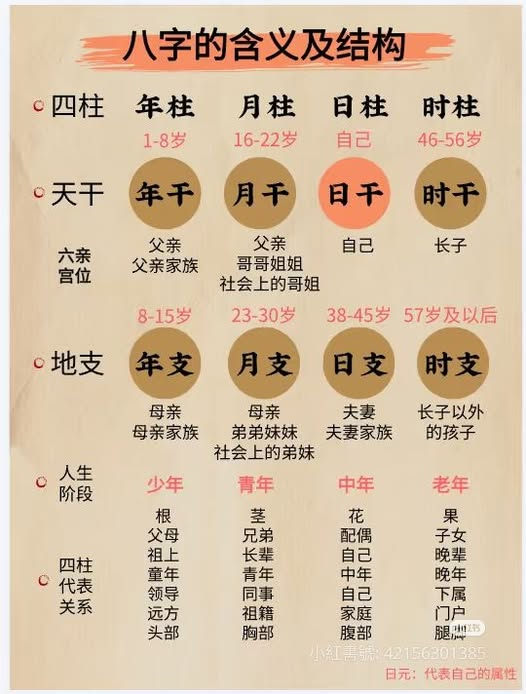
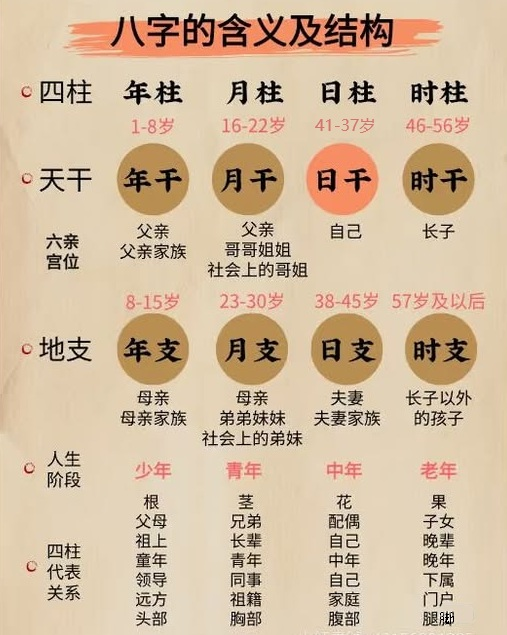
2026年5月25日1

Changed region(s): [[0.0, 0.0, 1.0, 1.0], [0.0888, 0.3591, 0.1775, 0.4488]]

diff --git a/source/_posts/2677-example.md b/source/_posts/2677-example.md
@@ -1,9 +1,9 @@
 ---
 title: 八字测算举例
-date: 2026-05-24
+date: 2026-05-25
 categories: Bagua
-tags: [Bagua]
-description: 用自己的八字举个例子
+tags: [Bagua, Bazi]
+description: 八字测算举例
 ---
 
 [TOC]
@@ -73,24 +73,71 @@ description: 用自己的八字举个例子
 很明显, 是弱势局, 需要加强木, 削弱金. 
 虽有三木二水, 但弱, 两金反强, 有潜在的金木之争. 中间只有癸阳水略作缓冲.
 综合考虑"扶抑","调侯","通关". 最佳选择是: 水.
-本局癸水透干为君，壬水藏支为臣. 作为用神. 则:
-**印星为用神; 官杀为喜神; 财星为忌神; 食伤为仇神**
-注意官杀的双重作用, 官杀是克日主的, 本质为压力源. 印旺时(可通关), 官杀才能发挥喜神的作用.
+本局癸水透干为君，壬水藏支为臣. 作为用神. 此局**用神为水(印星)**
 
-用喜忌仇, 多用于大运流年和应期推断. 初步推算中, 较少用到.
+用喜忌仇的判断, 多用于大运流年和应期推断. 
+初步推算中, 一般会提示往用喜对应十神方向发挥主动性.
+**八字中的用喜忌仇神**, 其定义和六爻不同, 不是基于五行生克固定的.
+而是**根据五行对原局整体性影响来定义的.**
+- 喜神, 辅助原局平衡, 如生用神, 或分担忌神压力的. 此局**喜神为木(比劫)**, 帮日主抗杀.
+- 忌神, 破坏原局平衡, 如克用神, 破坏通关五行的. 此局中**忌神为土(财星); 当水弱无制时, 金(官杀)也是忌神**.
+- 仇神, 不利原局平衡, 如生忌神. 此局中**仇神为火(食伤)**
 
 
 
 # 初步推算
 
-八字的含义及结构
+所有的八字推算信息都只能用于参考. 
+除非有非常特定的局, 或有交叉验证的方式, 方可大辐度提高现实确信度.
+
+
+
+首先可根据确定的用神,喜神,忌神,仇神. 进行一个初步的分析判断.
+此局中,用神忌神情况可概述为: 原局木金相战, 靠水平衡通关.宜在用喜之神上发力, 克制转换忌仇之神. 其中用喜为印星和比劫, 忌仇为财星和食伤. 不可执于官伤, 需要尽快基于印星转换.
+
+那么根据十神的映射关系, 基本特质可概括为:
+
+| 特质         | 象意来源            | 行为表现                                    |
+| ------------ | ------------------- | ------------------------------------------- |
+| **外柔内刚** | 乙木日主+劫财透干   | 表面随和好沟通，内在有主见、不轻易妥协      |
+| **思维缜密** | 杀印相生+偏印得令   | 遇事先分析逻辑/风险，忌拍脑袋决策           |
+| **抗压韧性** | 七杀当令+印星化杀   | 压力越大越能激发学习力，但需"缓冲期"消化    |
+| **表达克制** | 伤官藏支+身弱不胜泄 | 有创意/观点，但倾向"想透再说"，忌情绪化输出 |
+
+
+
+优势行为模式 (用神喜神模式, 需要学习使用, 利于成长)
+
+| 场景            | 推荐行为                             | 底层逻辑                          |
+| --------------- | ------------------------------------ | --------------------------------- |
+| **遇挑战/压力** | 先暂停→拆解问题→查资料/请教→形成方案 | 印星化杀：压力→学习→专业壁垒      |
+| **做决策**      | 写利弊清单+充分咨询+小步验证         | 印星缓冲+比劫借力，避"身弱不胜决" |
+| **合作/合伙**   | 前置沟通权责+书面约定+重口碑复利     | 比劫帮身+防劫财夺财，关系更稳     |
+| **创意/表达**   | 先沉淀方法论→再输出内容→配专业背书   | 伤官配印：创意有深度，表达有分量  |
+| **求财/变现**   | 依托专业壁垒+长期服务+合规路径       | 正财为主+印星把关，避"财生杀攻身" |
+
+
+
+风险行为倾向（忌神仇神模式, 需要避免, 否则容易内耗）
+
+| 触发场景       | 易出现的偏差              | 潜在后果                    |
+| -------------- | ------------------------- | --------------------------- |
+| **压力峰值期** | 焦虑→急躁决策→硬扛不求助  | 身弱不胜杀，易出错/身心透支 |
+| **利益诱惑时** | 为短期回报忽略规则/口碑   | 财生杀坏印，反噬专业根基    |
+| **情绪波动时** | 思多行少/言语直率伤关系   | 伤官见官+思行脱节，内耗加剧 |
+| **合作模糊时** | 碍于情面不签契约/权责不清 | 劫财夺财象意，后期摩擦消耗  |
+
+
+
+
+然后结合下表的八字映射关系, 根据对应的气场强弱和合冲生克刑害破关系, 初步推断出可能的现实对应.
+
 ![八字的含义及结构](https://draapho.github.io/images/2677/SiZhu.jpg)
 
-结合上表的八字映射关系, 根据对应的气场强弱和合冲生克刑害破关系, 初步推断出可能的现实对应.
-但这些信息只能用于参考. 除非有非常特定的局, 方可大辐度提高现实确信度.
+再把八字依次过一遍. 首先日主的气场特性是:
+**天时不利(难以择时), 无地利(无环境助力), 人和强**: 
+整体看, 不会自降机遇, 很多事情需要主观能动性去确定发展方向.
 
-八字依次过一遍吧. 请记得日主的气场特性:
-**天时不利(难以择时), 无地利(无环境助力), 人和强**: 整体看, 不会自降机遇, 很多事情需要主观能动性去确定发展方向.
 - 年干甲木劫财: 自坐沐浴, 无根, 月日时三干生扶, 气中强.
 - 年支子水偏印: 无旬空, 透干, 月支生. 气强
   - 星运病, 神煞太极贵人/天乙贵人.
@@ -136,7 +183,7 @@ description: 用自己的八字举个例子
 - 全局总结, 高置信度>75%, 中置信度50%, 低的就不写了:
   - [高]**核心命局**:
     - 天时不助投机侥幸，人生高度取决于主观能动性与专业沉淀能力
-    - 性格底色：思维缜密、抗压性强、外柔内刚（乙木+杀印相生+劫财透干）
+    - 性格底色：思维缜密、抗压性强、外柔内刚、表达克制
     - 关键优势：化压力为学识的"杀印相生"格局，适合规则清晰、需专业壁垒的领域
   - [高]**事业财富**:
     - 最佳发展：硬技能/知识体系构建 → 技术变现、知识付费、合规型项目管理/顾问咨询
@@ -180,17 +227,112 @@ description: 用自己的八字举个例子
   - 用神+桃花协同引动: 印星(用神)到位+桃花神煞被引动
 - 最后进行流年推演:
   - 现在已经很方便了, 只需在排盘软件中, 点击流年即可直观的推演.
-  - 2003-2012｜乙亥大运. 青年时期,用神到位.
-    - 大运特征：亥水正印(用神)+乙木比肩
-    - 星到位→状态提升，专业/学习场景易遇欣赏者
-    - 巳亥冲（冲配偶宫！）→感情波动/异地/分合考验
-    - [中]2007丁亥:用神双现,大运亥+流年亥,印星旺相;食神生财,丁火食神,才华/创意吸引欣赏者;配偶宫引动:亥冲巳→关系变动期,易有"心动信号";双亥冲一巳：情绪波动/异地考验/选择困难
-    - [高]2008戊子:财星透干,戊土正财透,正缘信号显性化;用神得根,状态稳;子酉破+子巳无冲,缘分隐性推进,不张扬但扎实
+  - 2003-2012, 乙亥大运. 亥水正印(用神)+乙木比肩.
+  - [中]2003癸未:癸水偏印透+未土财库+巳酉未三合.印星+财库:务实型缘分萌芽;三合引动:学业或事业/感情联动,缘分显性度提升.此年"正缘概率"相对提升.
+  - [中]2007丁亥:用神双现,大运亥+流年亥,印星旺相;食神生财,丁火食神,才华/创意吸引欣赏者;配偶宫引动:亥冲巳→关系变动期,易有"心动信号";双亥冲一巳：情绪波动/异地考验/选择困难
+  - [高]2008戊子:财星透干,戊土正财透,正缘信号显性化;用神得根,状态稳;子酉破+子巳无冲,缘分隐性推进,不张扬但扎实.
 
 
 
 # 应期的交叉验证
 
+不知死, 焉知生. 尝试判断寿命.
+
+
+
+## 易经卜卦, 问寿命
+
+问阳寿几何?
+- 略筮法: 上卦5巽, 下卦5巽, 动爻1
+- 装卦
+  ```
+  公历：2026年 4月 15日 22时 7分
+  干支：丙午年 壬辰月 己未日 乙亥时 （旬空：子丑)
+  得「巽为风」之「风天小畜」卦
+  　　　　　　　　巽宫:巽为风(六冲)　　　　　　　巽宫:风天小畜
+  勾陈　　　　　　兄弟辛卯木 ▅▅▅▅▅ 世　　   兄弟辛卯木 ▅▅▅▅▅
+  朱雀　　　　　　子孙辛巳火 ▅▅▅▅▅ 　　　   子孙辛巳火 ▅▅▅▅▅
+  青龙　　　　　　妻财辛未土 ▅▅　▅▅ 　　　   妻财辛未土 ▅▅　▅▅
+  玄武　　　　　　官鬼辛酉金 ▅▅▅▅▅ 应　　   妻财甲辰土 ▅▅▅▅▅
+  白虎　　　　　　父母辛亥水 ▅▅▅▅▅ 　　　   兄弟甲寅木 ▅▅▅▅▅
+  螣蛇　　　　　　妻财辛丑土 ▅▅　▅▅ 　×→    父母甲子水 ▅▅▅▅▅
+  ```
+- 断卦: 60不到. 大概率2041年, 57岁. 或55岁. 注意丑年2033年, 49岁, 也有可能有波折变故.
+- 易经解卦
+  - 先天, 巽为5. 为55.
+  - 序卦传. 巽风, 57. 小畜, 9.
+  - 卦气说. 小畜, 五月, 数字7. 巽风, 九月,  数字11
+  - 64卦圆图. 巽风, 5. 小畜. 57.
+  - 巽为风湿, 神经. 乾为头痛, 脑疾.
+  - 五行取数: 动爻土5/10, 变爻水1/6. 可为56, 57.
+  - 一生运势:
+    - 初六：进退，利武人之贞。0-10岁
+      - 问时运：运途不正，心神犹豫，是以谋事皆颠倒无成。
+      - 性格决定命运.性格为巽顺也.不喜武,也就没有武人之贞.
+    - 九二：巽在床下，用史巫纷若，吉，无咎。10-20岁
+      - 问时运：得神明保佑，运途多吉。
+    - 九三：频巽，吝。志穷也。20-30岁
+      - 问时运：目下运途卑低，未免为人所贱。
+      - 初入社会,可应命局中的压力显现.
+    - 六四：悔亡，田获三品。30-40岁
+      - 问时运：运途得正，灾悔俱亡，出而有功也。
+      - 可应命局分析中,七杀生偏印, 压力生智慧. 但命局中的时间不对. 
+    - 九五：贞吉，悔亡，无不利，无初有终。先庚三日，后庚三日，吉。40-50岁
+      - 问时运：逢丁癸日作事，无往不利，大吉。
+      - 平安无事, 安然渡过.
+    - 上九：巽在床下，丧其资斧，贞凶。50-60岁
+      - 问时运：运途不正，作事委靡，愈高愈危，有丧无得，凶。
+      - 疾病缠身, 病危.
+- 六爻解卦
+
+  | 爻神 | 地支     | 用神                          | 原神(生用神)                            | 忌神(克用神)       | 仇神(生忌神)            | 耗护神(用神生) |
+  | ---- | -------- | ----------------------------- | --------------------------------------- | ------------------ | ----------------------- | -------------- |
+  | 爻位 |          | **上爻**(世)                  | 二爻; **初爻**(变)                      | **三爻**(应)       | **初爻**(动); 四爻;     | 五爻           |
+  | 六亲 |          | 兄弟卯木                      | 父母亥水; 父母子水(变)                  | 官鬼酉金           | 妻财丑土(动); 妻财未土; | 子孙巳火       |
+  | 月建 | **辰土** | 囚, 卯辰害(以强凌弱 根基受损) | 死, 亥入辰墓; 死                        | 相, **辰酉合**     | 旺; 旺; 旺              | 休             |
+  | 日辰 | **未土** | 囚, **卯入未墓**              | 死; 死, 子未害(空)                      | 相                 | 旺, **丑未冲**; 旺; 旺  | 休             |
+  | 旬空 | **子丑** |                               | 子                                      |                    | 丑                      |                |
+  | 动爻 | **丑土** | 囚                            | 死, **子丑合**(空)                      | 相, 动生忌         | 旺, **化克**(子丑合,空) | 休             |
+  | 库墓 |          | **卯入未墓**(日)              | **亥入辰墓**(月); **子入辰墓**(月,空)   |                    | **丑入辰墓**(月,空)     |                |
+  | 能量 |          | **弱, 入墓, 原神空**          | 亥:无气; 子:真空                        | **旺相, 得月生合** | 丑:假暗动; 未/辰:旺     | 休囚无气       |
+  | 应期 |          | 卯(值), 酉(冲), 丑(冲未墓)    | 亥(值), 巳(冲), 戌(冲辰墓); 子/丑(出空) | 酉(值), 卯(冲)     | 丑(出空/值), 未(冲)     | 巳(值), 亥(冲) |
+  
+- 辛8, 丑2, 甲1, 子1. 一甲子. 60年.
+  - 世爻兄弟. 问自身情况, 世爻作为用神.
+    - 极弱. 卯辰害, 根基有损.
+    - 酉冲易散. 酉年2041年, 57岁.
+    - 丑年冲墓不得出. 2033年, 49岁.
+  - 原神父母: 寿元根基, 天命等.
+    - 极弱. 旬空, 入墓不得出.
+    - 注意丑年, 2033年, 49岁. 辰年, 2036, 52岁.
+  - 忌神官鬼: 代表疾病, 灾厄, 压力等.
+    - 旺. 酉值. 应2041年.
+  - 仇神妻财: 主饮食, 欲望, 劳碌等
+    - 极旺. 注意丑年, 2033年, 49岁.
+    - 未土. 2039年, 55岁.
+  - 耗护神子孙. 修身养性, 心态平和等.
+
+
+
+## 八字大运流年的交叉验证
+
+有了预期的几个时间点, 只需要重点排查即可(如2033,2036,2039,2041等年份):
+- 原局的基础信息:
+  - 用神: **印星水**; 忌神: **财星土**, **官杀金**(仅印星水弱的情况)
+  - 健康焦点：金木交战→肝胆/神经系统/筋骨/呼吸系统/多症并发
+- [高]大运丁丑, 流年2033癸丑.
+  - 虽然癸水为用神,但丁癸冲. 且子丑合,用神印水总体减弱. 修复力下降.
+  - 而巳酉丑三合成金, 官杀极旺, 直克日主乙木!
+  - 2033年己未月(8月),己未为仇神土,且丑未冲,引动大运流年.注意肠胃/皮肤突发不适.
+  - 2033年辛酉月(10月),双金官杀旺之极, 风险尤其的大!
+- [极高]大运戊寅, 流年2041辛酉.
+  - 流年辛酉金极旺,辛乙冲. 直接冲击日主乙木! 且酉酉自刑无制(杀疯了).
+  - 大运戊癸合绊,用神癸水气场大减! 水一旦受阻,就难以助力金木通关,金克木再度加强! 
+  - 还没完! 大运寅泄年支水,寅申冲终结巳申合水,水再度减弱,金再度加强,且巳火再泄乙木.
+  - **原局的通关平衡被彻底破坏!** 官杀旺极自刑,用神之水被破坏殆尽,日主乙木直接被冲泄, 非常虚弱.
+  - 2041年丙申月(9月,丙火申金),丁酉月(10月,丁火冲癸酉金), 戊戌(11月,戊土合癸水), 申酉戌三会成金局.
+  - 2041年9/10/11三个月,一月难过一月,金越来越旺,水木越来越弱.金完胜,木完败.
+- 综合占卜结论,这个坎,基本很难过去.
 
 
 

diff --git a/source/_posts/2675-Bazi.md b/source/_posts/2675-Bazi.md
@@ -40,18 +40,18 @@ description: 八字四柱的学习
 ## 十神
 **十神**, 是四柱的专用概念, 也是四柱最重要, 最核心的概念. 以**日主**为中心, 即日柱的天干, 代表自己. 基于五行生克和阴阳关系推导而来.
 
-| 十神 | 简称及作用   | 与日主的关系    | 核心含义         | 人事象意                     |
-| ---- | ------------ | --------------- | ---------------- | ---------------------------- |
-| 比肩 | **比劫**↓   | 同五行,同阴阳   | 自我,竞争,助力 | 自尊,同辈,兄弟朋友 |
-| 劫财 | 相助,旺 100% | 同五行,异阴阳   | 争夺,变动,外助 | 竞争,合作,帮扶       |
-| 正印 | **印星** ↓   | 生日主者,异阴阳 | 学识,安全,仁慈 | 学历,贵人,母亲 |
-| 偏印 | 相助,相 90%  | 生日主者,同阴阳 | 偏门,孤傲,洞察 | 玄学,绝活,继母 |
-| 食神 | **食伤** ↓   | 日主所生,同阴阳 | 才华,享受,温和 | 技艺,福寿,子女(女命) |
-| 伤官 | 阻碍,休 30%  | 日主所生,异阴阳 | 创意,叛逆,表达 | 露才,创新,子女(男命) |
-| 正财 | **财星**↓   | 日主所克,异阴阳 | 稳定,务实,节制 | 工资,勤俭,责任,妻子    |
-| 偏财 | 阻碍,囚 50%  | 日主所克,同阴阳 | 意外,投机,慷慨 | 商业,社交,情人,父亲 |
-| 正官 | **官杀**↓   | 克日主者,异阴阳 | 规则,责任,名誉 | 仕途,自律,丈夫 |
-| 七杀 | 阻碍,死 10%  | 克日主者,同阴阳 | 压力,挑战,魄力 | 武职,危机,小人 |
+| 十神 | 与日主的关系    | 简称及作用   | 特性和偏好 | 抽象意象      | 人事意象                    |
+| ---- | --------------- | ------------ | ---------------- | ---------------------------- | ---------------------------- |
+| 比肩(比) | 同五行,同阴阳   | **比劫** 旺 100% | *合作* | 自我,竞争,助力 | 自尊,同辈,兄弟朋友 |
+| 劫财(劫) | 同五行,异阴阳   | *资源获取* | *竞争* | 争夺,变动,外助 | 竞争,合作,帮扶       |
+| 正印(印) | 生日主,异阴阳 | **印星/印枭** 相 90% | *外部认可* | 学识,安全,仁慈 | 学历,贵人,母亲 |
+| 偏印(枭) | 生日主,同阴阳 | *性格底色* | *自我内求* | 偏门,孤傲,洞察 | 玄学,绝活,继母 |
+| 食神(食) | 日主生,同阴阳 | **食伤** 休 30% | *物质/享乐* | 才华,享受,温和 | 技艺,福寿,子女(女命) |
+| 伤官(伤) | 日主生,异阴阳 | *欲望层面* | *精神/冒险* | 创意,叛逆,表达 | 露才,创新,子女(男命) |
+| 正财(财) | 日主克,异阴阳 | **财星** 囚 50% | *稳定节俭* | 稳定,务实,节制 | 工资,勤俭,责任,妻子    |
+| 偏财(才) | 日主克,同阴阳 | *财源特性* | *波动大方* | 意外,投机,慷慨 | 商业,社交,情人,父亲 |
+| 正官(官) | 克日主,异阴阳 | **官杀** 死 10% | *外部规训* | 规则,责任,名誉 | 仕途,自律,丈夫 |
+| 七杀(杀) | 克日主,同阴阳 | *压力来源* | *自我要求* | 压力,挑战,魄力 | 武职,危机,小人 |
 
 
 
@@ -214,11 +214,11 @@ description: 八字四柱的学习
 |          | **扶抑** (日主旺衰)                   | 适用于日主旺衰明显的普通命局.<br>强则抑, 弱则扶, 中则和. 注意用药强度 | 日主强: 取官杀, 食伤, 财星<br>日主弱: 取印星, 比劫<br>日主和: 确保命局流通, 或取调候 |
 |          | **调候** (季节失衡)                   | 月支夏季燥热或冬季湿寒, 气候失衡<br>或四柱五行严重偏科, 则调候优先.<br>总原则, 阴阳平衡, 燥湿平衡, 寒热平衡 | 月支春: 丙火(泄木), 葵水(润木)<br>月支夏: 壬水优先, 庚金辰丑<br>月支秋: 丁火(炼金), 壬水(润金)<br>月支冬: 丙火优先, 戊土丁火 |
 |          | **通关** (两神相战)                   | 两神等势相战(如金木, 水火), 需通关调和                       | 取通关五行. 金木战取水,<br>木土战取火, 土水战取金,<br>水火战取木, 火金战取土 |
-|          | **专旺/从格**                         | 顺势用神,不可逆选尝试平衡                                   | 用神选顺喜之神即可.                                          |
+|          | **专旺/从格**                         | 顺势用神,不可逆选尝试平衡                                    | 用神选顺喜之神即可.                                          |
 |          | **化气格**                            | 日主有合且合化成功(条件极其苛刻)                             | 取合化五行为用神                                             |
-| **喜神** |                                       | 辅助用神达成平衡的五行                                       | 生用神, 扶用神, 克忌神,使用神通关                           |
-| **忌神** |                                       | 破坏命局平衡的五行,往往意味着引发灾咎.                      | 克用神,严重耗泄用神,                                        |
-| **仇神** |                                       | 助长忌神,削弱喜神,加剧失衡的五行                           | 生忌神, 克喜神                                               |
+| **喜神** |                                       | 辅助用神达成平衡的五行<br>*不以五行生克为标准*               | 生扶日主,生用神<br>克忌神,使用神通关                         |
+| **忌神** |                                       | 破坏命局平衡,往往意味着引发灾咎.<br>*不以五行生克为标准*     | 克用神,严重耗泄用神<br>克日主,破坏通关                       |
+| **仇神** |                                       | 助长忌神,削弱喜神,不利命局平衡<br>*不以五行生克为标准*       | 生忌神,克喜神                                                |
 
 
 

diff --git a/source/_posts/2608-mapping.md b/source/_posts/2608-mapping.md
@@ -399,18 +399,18 @@ description: 八卦,五行,干支的常见映射
 
 ## 八字专用概念
 
-| 十神 | 简称及作用   | 核心含义         | 人事象意                     |
-| ---- | ------------ | ---------------- | -------------------- |
-| 比肩 | **比劫**↓   | 自我、竞争、助力 | 兄弟朋友、同辈、自尊心       |
-| 劫财 | 相助,旺 100% | 争夺、变动、外助 | 争财、竞争、合作、帮扶       |
-| 正印 | **印星** ↓   | 学识、保护、仁慈 | 母亲、学历、贵人、安全感     |
-| 偏印 | 相助,相 90%  | 偏门、孤僻、洞察 | 继母、玄学、绝活、孤独感     |
-| 食神 | **食伤** ↓   | 才华、享受、温和 | 口才、艺术、子女(女命)、福气 |
-| 伤官 | 阻碍,休 30%  | 创意、叛逆、表达 | 露才、叛逆、技术、子女(男命) |
-| 正财 | **财星**↓   | 稳定、务实、节制 | 工资、妻子、勤俭、责任       |
-| 偏财 | 阻碍,囚 50%  | 意外、投机、慷慨 | 投资、父亲、情人、社交       |
-| 正官 | **官杀**↓   | 规则、责任、名誉 | 事业、上司、丈夫、自律       |
-| 七杀 | 阻碍,死 10%  | 压力、挑战、魄力 | 权威、小人、武职、危机       |
+| 十神     | 简称及作用           | 特性和偏好  | 抽象意象       | 人事意象             |
+| -------- | -------------------- | ----------- | -------------- | -------------------- |
+| 比肩(比) | 同我者 **比劫**      | *合作*      | 自我,竞争,助力 | 自尊,同辈,兄弟朋友   |
+| 劫财(劫) | *资源获取*           | *竞争*      | 争夺,变动,外助 | 竞争,合作,帮扶       |
+| 正印(印) | 生我者 **印星/印枭** | *外部认可*  | 学识,安全,仁慈 | 学历,贵人,母亲       |
+| 偏印(枭) | *性格底色*           | *自我内求*  | 偏门,孤傲,洞察 | 玄学,绝活,继母       |
+| 食神(食) | 我生者 **食伤**      | *物质/享乐* | 才华,享受,温和 | 技艺,福寿,子女(女命) |
+| 伤官(伤) | *欲望层面*           | *精神/冒险* | 创意,叛逆,表达 | 露才,创新,子女(男命) |
+| 正财(财) | 我克者 **财星**      | *稳定节俭*  | 稳定,务实,节制 | 工资,勤俭,责任,妻子  |
+| 偏财(才) | *财源特性*           | *波动大方*  | 意外,投机,慷慨 | 商业,社交,情人,父亲  |
+| 正官(官) | 克我者 **官杀**      | *外部规训*  | 规则,责任,名誉 | 仕途,自律,丈夫       |
+| 七杀(杀) | *压力来源*           | *自我要求*  | 压力,挑战,魄力 | 武职,危机,小人       |
 
 
 

diff --git a/source/_posts/2673-GanZhi.md b/source/_posts/2673-GanZhi.md
@@ -2,7 +2,7 @@
 title: 炁, 五行, 天干地支的基础知识
 date: 2026-05-19
 categories: Bagua
-tags: [Bagua]
+tags: [Bagua, Bazi]
 description: 炁, 五行, 天干地支的特性,关系和映射
 ---
 

diff --git a/source/_posts/2676-Shishen.md b/source/_posts/2676-Shishen.md
@@ -2,7 +2,7 @@
 title: 生克作用路径和因境取象
 date: 2026-05-24
 categories: Bagua
-tags: [Bagua]
+tags: [Bagua, Bazi]
 description: 生克作用路径和因境取象
 ---
 

diff --git a/source/_posts/9999-TOC.md b/source/_posts/9999-TOC.md
@@ -115,6 +115,7 @@ description: 博客目录及联系方式
 - [末后牢关及相关占卜](https://draapho.github.io/2026/05/21/2674-Stage3/)
 - [八字四柱的学习](https://draapho.github.io/2026/05/22/2675-Bazi/)
 - [生克作用路径和因境取象](https://draapho.github.io/2026/05/24/2676-Shishen/)
+- [八字测算举例](https://draapho.github.io/2026/05/25/2677-example/)
 
 
 